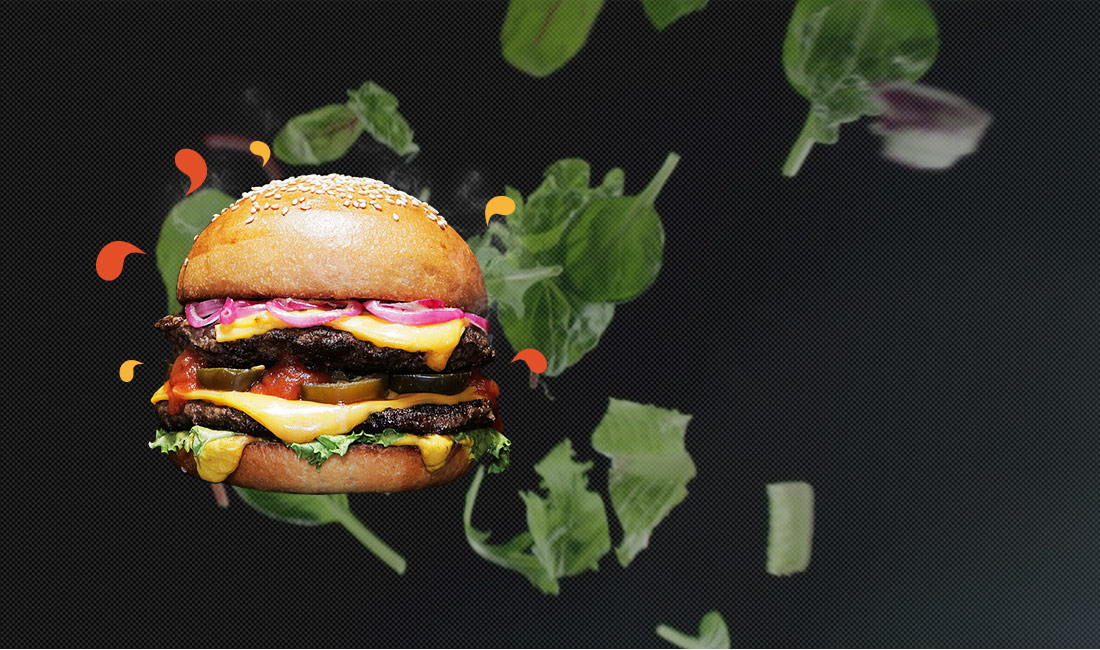
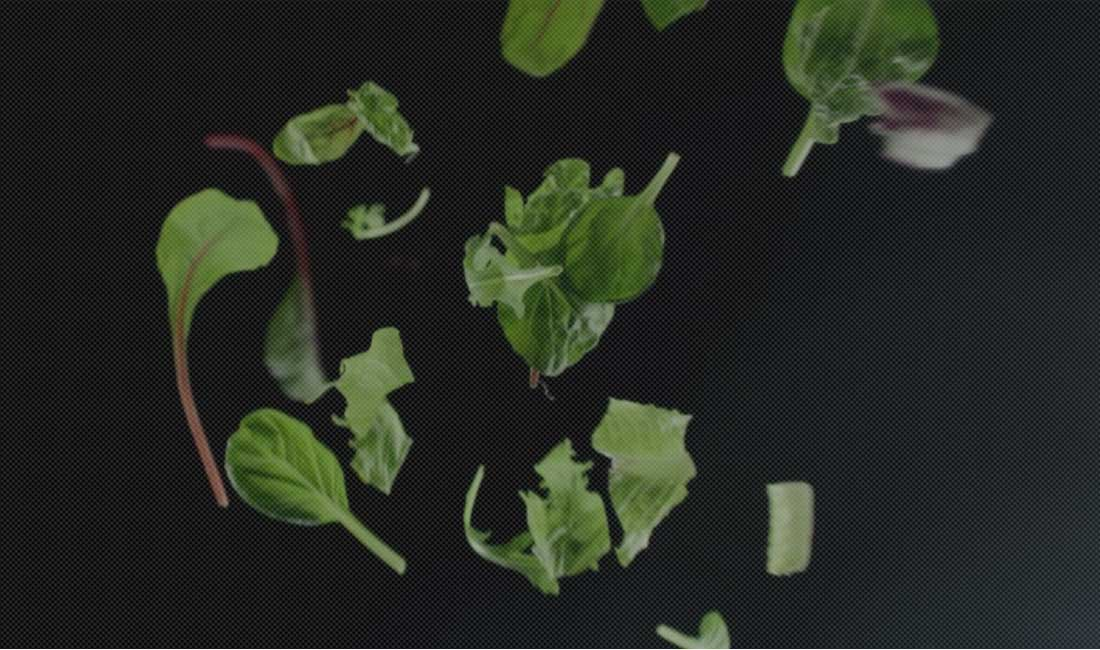
updated firts page

Changed region(s): [[0.0927, 0.2154, 0.4945, 0.7692], [0.0618, 0.3692, 0.1236, 0.4308], [0.2164, 0.2154, 0.2473, 0.2462]]

diff --git a/index.html b/index.html
@@ -33,35 +33,44 @@
                             <a class="header-button__link" href="" data-goto="6">заказать</a>
                         </div>
                     </header>
-                    <main class="main-content__first">
-                        <sidebar class="side-first-page">
-                            <ul class="first-side-menu__list">
-                                <li class="first-side-menu__item--active">
-                                    <img class="first-side-menu__item__img" src="img/point.png" alt="dot">
+                    <sidebar class="side-first-page">
+                            <ul class="side__list">
+                                <li class="side__item side__item--active">
+                                    <a href="" class="side__item__img" data-goto="1"></a>
+                                    <!--<img class="first-side-menu__item__img" src="img/point.png" alt="dot">-->
                                 </li>
-                                <li class="first-side-menu__item">
-                                    <img class="first-side-menu__item__img" src="img/point.png" alt="dot">
+                                <li class="side__item">
+                                    <a href="" class="side__item__img" data-goto="1"></a>
+                                    <!--<img class="first-side-menu__item__img" src="img/point.png" alt="dot">-->
                                 </li>
-                                <li class="first-side-menu__item">
-                                    <img class="first-side-menu__item__img" src="img/point.png" alt="dot">
+                                <li class="side__item">
+                                    <a href="" class="side__item__img" data-goto="1"></a>
+                                    <!--<img class="first-side-menu__item__img" src="img/point.png" alt="dot">-->
                                 </li>
-                                <li class="first-side-menu__item">
-                                    <img class="first-side-menu__item__img" src="img/point.png" alt="dot">
+                                <li class="side__item">
+                                    <a href="" class="side__item__img" data-goto="1"></a>
+                                    <!--<img class="first-side-menu__item__img" src="img/point.png" alt="dot">-->
                                 </li>
-                                <li class="first-side-menu__item">
-                                    <img class="first-side-menu__item__img" src="img/point.png" alt="dot">
+                                <li class="side__item">
+                                    <a href="" class="side__item__img" data-goto="1"></a>
+                                    <!--<img class="first-side-menu__item__img" src="img/point.png" alt="dot">-->
                                 </li>
-                                <li class="first-side-menu__item">
-                                    <img class="first-side-menu__item__img" src="img/point.png" alt="dot">
+                                <li class="side__item">
+                                    <a href="" class="side__item__img" data-goto="1"></a>
+                                    <!--<img class="first-side-menu__item__img" src="img/point.png" alt="dot">-->
                                 </li>
-                                <li class="first-side-menu__item">
-                                    <img class="first-side-menu__item__img" src="img/point.png" alt="dot">
+                                <li class="side__item">
+                                    <a href="" class="side__item__img" data-goto="1"></a>
+                                    <!--<img class="first-side-menu__item__img" src="img/point.png" alt="dot">-->
                                 </li>
-                                <li class="first-side-menu__item">
-                                    <img class="first-side-menu__item__img" src="img/point.png" alt="dot">
+                                <li class="side__item">
+                                    <a href="" class="side__item__img" data-goto="1"></a>
+                                    <!--<img class="first-side-menu__item__img" src="img/point.png" alt="dot">-->
                                 </li>
                             </ul>
                         </sidebar>
+                    <main class="main-content__first">
+                        <div class="img-first"><img src="img/burger-first.png" alt="burger"></div>
                         <div class="first-general">
                             <h1 class="page-title first-page__title">мы делаем</h1>
                             <h2 class="page__subtitle">натуральные</br>бургеры</h2>
@@ -100,10 +109,10 @@
                 </div>
             </section>
             <section class="section feedback-page">
-                <div class="container">
                     <ul class="feedback__list">
                         <li class="feedback__item">
-                            <img class="feedback__img" src="img/feedback8.jpg" alt="girl">
+                            <div class="feedback__img" style="background-image: url(img/feedback8.jpg);"></div>
+                            <!--<img class="feedback__img" src="img/feedback8.jpg" alt="girl">-->
                             <div class="feedback__content">
                                 <p class="feedback__title">Константин Спилберг</p>
                                 <p class="feedback__text">Мысли все о них и о них, о них и о них. Нельзя устоять, невозможно забыть... Никогда не думал, что булочки могут быть такими мягкими, котлетка такой сочной, а сыр таким расплавленным.</p>
@@ -167,7 +176,6 @@
                             </div>
                         </li>
                     </ul>
-                </div>
             </section>
         </div>
     </div>

diff --git a/css/main.css b/css/main.css
@@ -71,49 +71,72 @@ ul.menu-top__list {
     padding: 10px 15px;
     text-transform: uppercase;
 }
-
+/* sidebar */
+.side-first-page {
+    display: block;
+    top: 15%;
+    right: 5%;
+    position: fixed;
+    z-index: 200;
+}
+.side__item {
+    padding-bottom: 15px;
+}
+.side__item__img {
+    position: relative;
+    display: block;
+    width: 7px;
+    height: 7px;
+    border-radius: 50%;
+    background-color: #ddd;
+}
+.side__item--active:before {
+    border: 1px solid #dddddd;
+    content: '';
+    position: absolute;
+    transform: translate(-30%, -30%);
+    width: 16px;
+    height: 16px;
+    border-radius: 50%;
+}
+.side__item:hover:before {
+     content: '';
+    position: absolute;
+    transform: translate(-30%, -30%);
+    width: 16px;
+    height: 16px;
+    border-radius: 50%;
+    border: 1px solid #dddddd;
+}
+.side__item {
+    display: block;
+    
+}
 /* First page Main Content*/
 
 .main-content__first {
     display: flex;
-    flex-flow: row wrap;
-    justify-content: flex-start;
-    align-items: flex-end;
-    flex-direction: row-reverse;
+    flex-flow: row nowrap;
+    justify-content: center;
+    align-items: center;
+    flex-direction: row;
     width: 100%;
     padding-bottom: 15%;
     flex: 1;
 }
-.side-first-page {
-    margin-right: 45px;
-    display: inline-block;
-    top: 15%;
-    right: 5%;
-    position: fixed;
-    z-index: 100;
+.img-first {
+    flex-basis: 50%;
 }
-.first-side-menu__item__img {
-    border-radius: 50%;
-    width: 7px;
-    height: 7px;
-}
-.first-side-menu__item--active {
-    display: inline-block;
-    width: 15px;
-    height: 15px;
-    border: 1px solid #dddddd;
-    border-radius: 50%;
 
-}
-.first-side-menu__item {
-    display: block;
-    
-}
 .first-general {
     display: inline-block;
     position: relative;
-    margin-right: 20%;
     height: 100%;
+    flex-basis: 50%;
+    display: flex;
+    flex-direction: column;
+    justify-content: flex-end;
+    align-items: center;
 }
 
 .page-title {
@@ -172,14 +195,14 @@ ul.menu-top__list {
     margin-top: 80px;
 }
 
-.second-page__title {
+/*.second-page__title {
     color: #2f3234;
     display: block;
     width: 500px;
     margin: 0 auto;
     text-align: center;
     padding-top: 65px;
-}
+}*/
 
 .secondpage__title {
     font-family: Lifehack-Medium;
@@ -195,13 +218,13 @@ ul.menu-top__list {
 .feedback__list {
     display: flex;
     flex-flow: row wrap;
-    justify-content: flex-start;
+    align-content: stretch;
  
 }
 .feedback__item {
     /*width: 275px;
     height: 325px;*/
-    width: 25%;
+    flex-basis: 25%;
     height: 50%;
     display: inline-block;
     position: relative;
@@ -211,8 +234,10 @@ ul.menu-top__list {
     filter: grayscale(1);
     height: 100%;
     width: 100%;
-    display: inline-block;
-    object-fit: cover;
+    /*display: inline-block;
+    object-fit: cover;*/
+    background-size: cover;
+    background-position: 50% 50%;
 }
 
 .feedback__content {
